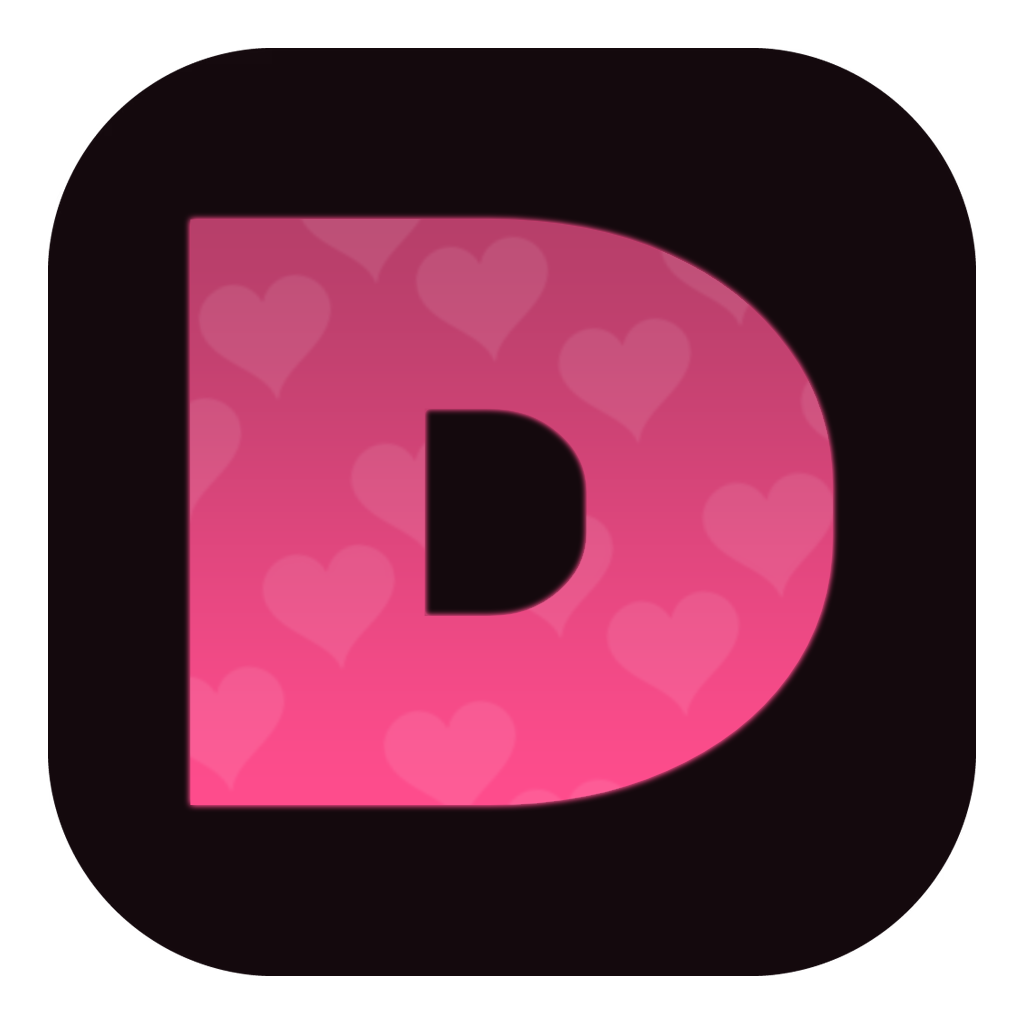
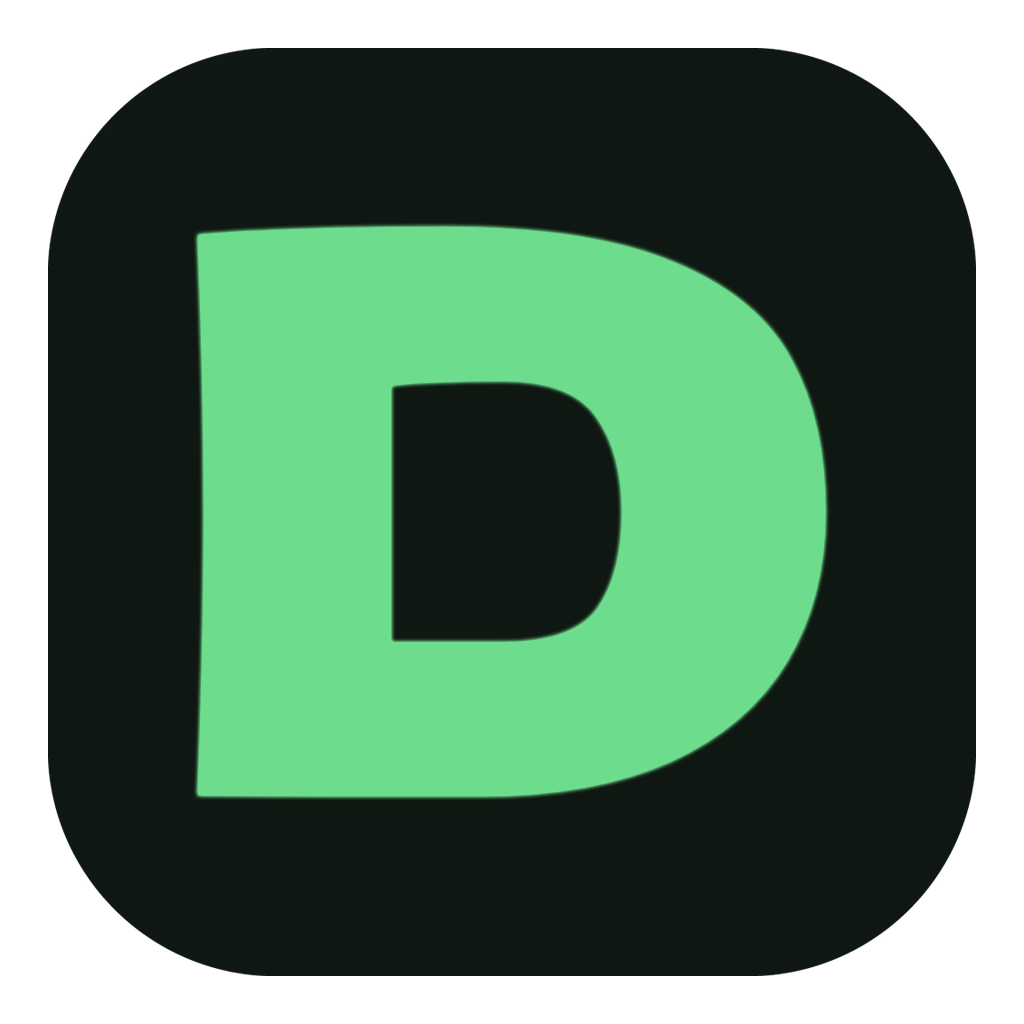
small product update v0.8

diff --git a/index.html b/index.html
@@ -37,7 +37,7 @@
      <span></span>
       <span>CHINESE NEW YEAR FEB 14–21</span>
       <span>•</span>
-      <span>ORDER NOW TO AVOID SHIPPING DELAYS</span>
+      <span>ORDER NOW! DELAYS GONE!</span>
       <span>•</span>
     </div>
   </div>
@@ -48,14 +48,12 @@ window.addEventListener("load", () => {
   const group = document.getElementById("announcementGroup");
 
   function fillBanner() {
-    // reset track to original group
     track.innerHTML = "";
     track.appendChild(group);
 
     const groupWidth = group.offsetWidth;
     const screenWidth = window.innerWidth;
 
-    // how many copies we need to fill screen * 2 for seamless loop
     const copiesNeeded = Math.ceil((screenWidth * 2) / groupWidth);
 
     for (let i = 0; i < copiesNeeded; i++) {
@@ -448,7 +446,7 @@ LATER.addEventListener("click", () => {
     </h1>
 
     <p class="hero-description">
-      All the best reps from Balenciaga, Rick Owens, Chrome Hearts,
+      All the best reps from Balenciaga, Rick Owens, Chrome Hearts, ERD,
       plus archive pieces from Raf Simons and Number (N)ine.
     </p>
 
@@ -480,21 +478,16 @@ function initProductsHorizontal(products) {
 
   const shuffled = [...products].sort(() => Math.random() - 0.5);
 
-  // Split into rows of 3
   const rows = [];
   for (let i = 0; i < shuffled.length; i += 3) {
     const row = shuffled.slice(i, i + 3);
     if (row.length === 3) rows.push(row);
   }
-
-  // Fill columns horizontally
   rows.forEach(row => {
     leftCol.appendChild(createCardHorizontal(row[0]));
     midCol.appendChild(createCardHorizontal(row[1]));
     rightCol.appendChild(createCardHorizontal(row[2]));
   });
-
-  // Duplicate content for infinite horizontal scroll
   leftCol.innerHTML += leftCol.innerHTML;
   midCol.innerHTML += midCol.innerHTML;
   rightCol.innerHTML += rightCol.innerHTML;

diff --git a/style.css b/style.css
@@ -5,46 +5,31 @@
 html, body {
   touch-action: manipulation;
 }
+
 :root {
-  --bg: #14090d;           
-  --panel: #1f1016;     
-  --panel-2: #2a141d;    
-  --border: #30161f;         
-  --accentdark: #dd467d;
-  --accent: #ff4d8d;         
-  --accent-soft: #ff8fb6;
-  --accentrgb: rgb(255, 77, 141, 0.932);
-  --text: #ffe9f1;            
-  --text-secondary: #f5c6d6;
-  --muted: #b07a8c;           
-  --pillbackground: rgba(255, 77, 141, 0.1);
-  --pillborder: rgba(255, 77, 141, 0.35);
-  --accentdarker: #ff4d8e07;
-  --overlay: rgba(20, 0, 10, 0.78);
+  --bg: #0f1712;      
+  --panel: #16221a;         
+  --panel-2: #1c2b22;     
+  --border: #2e4436;
+
+  --accent: #6ddc8c;          
+  --accentdark: #4fbf70;    
+  --accent-soft: #bff5cf;     
+  --accentrgb: rgba(109,220,140,0.9);
+  --accentdarker: #6ddc8c18;
+
+  --text: #f2fff6;           
+  --text-secondary: #cfe8d7;
+  --muted: #8fb6a0;
+
+  --pillbackground: rgba(109,220,140,0.12);
+  --pillborder: rgba(109,220,140,0.35);
+  --overlay: rgba(10, 20, 15, 0.85);
 }
 
-/* brown milk tea color 
-:root {
-  --bg: #15120f;
-  --panel: #1e1915;
-  --panel-2: #26201a;
-  --border: #3a3026;
 
-  --accent: #d8a47f;
-  --accentdark: #c08d6a;
-  --accent-soft: #f0cfb4;
-  --accentrgb: rgba(216,164,127,0.9);
-  --accentdarker: #d8a47f12;
 
-  --text: #fff7f1;
-  --text-secondary: #f2dfd1;
-  --muted: #c2a895;
 
-  --pillbackground: rgba(216,164,127,0.12);
-  --pillborder: rgba(216,164,127,0.35);
-  --overlay: rgba(20,15,12,0.85);
-}
-*/
 
 
     @keyframes shrink {
